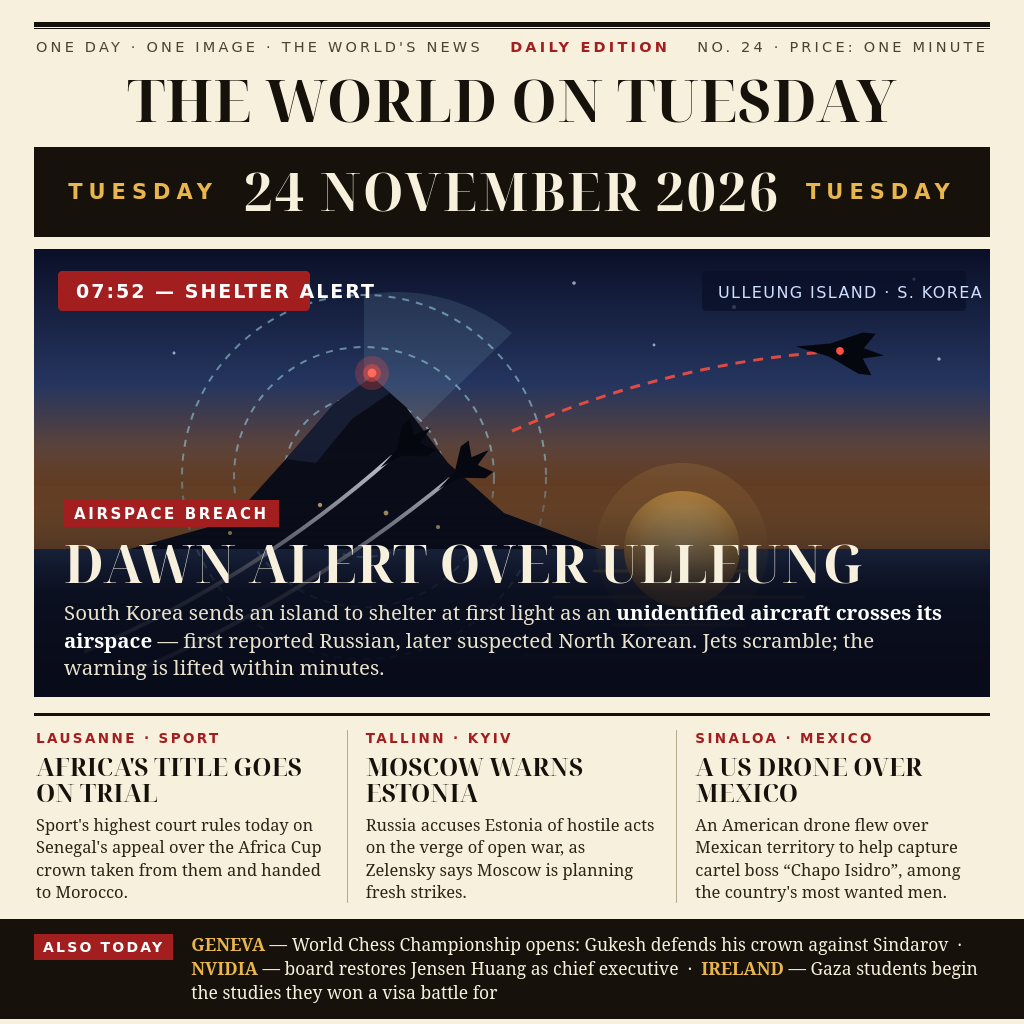
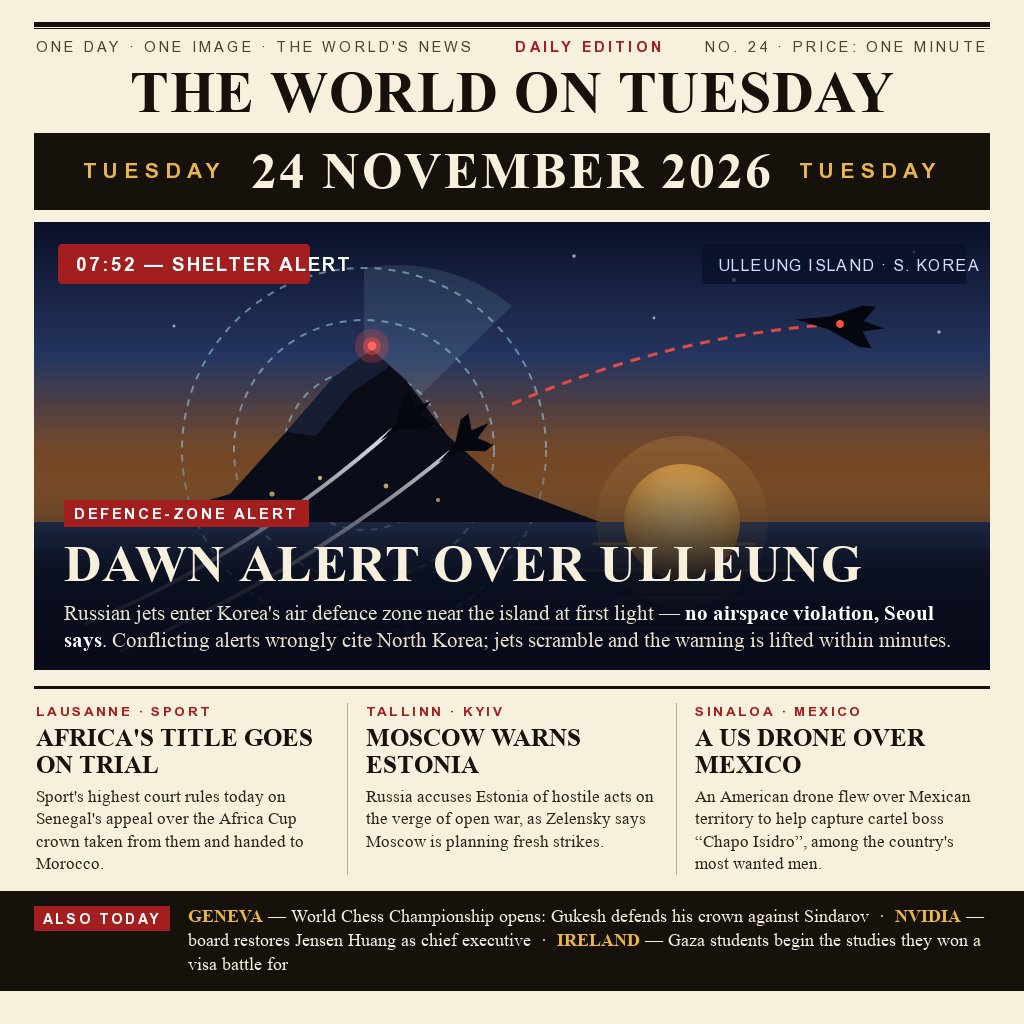
Correct Ulleung hero: Russian jets entered KADIZ, no airspace violation

diff --git a/frontpage.html b/frontpage.html
@@ -207,11 +207,11 @@
       </g>
     </svg>
     <div class="hero-head">
-      <span class="flag">AIRSPACE BREACH</span>
+      <span class="flag">DEFENCE-ZONE ALERT</span>
       <h2>DAWN ALERT OVER ULLEUNG</h2>
-      <p>South Korea sends an island to shelter at first light as an <b>unidentified aircraft crosses
-         its airspace</b> — first reported Russian, later suspected North Korean. Jets scramble;
-         the warning is lifted within minutes.</p>
+      <p>Russian jets enter Korea's air defence zone near the island at first light —
+         <b>no airspace violation, Seoul says</b>. Conflicting alerts wrongly cite North Korea;
+         jets scramble and the warning is lifted within minutes.</p>
     </div>
   </div>
 

diff --git a/main.ts b/main.ts
@@ -2,8 +2,8 @@
 // Tuesday 24 November 2026, for make.fun's news-image-20261124.
 //
 // entry.png beside this file is the picture: a newspaper front page
-// whose single dominant scene shows South Korea's dawn airspace alert
-// over Ulleung Island — an unidentified aircraft crossing at first
+// whose single dominant scene shows South Korea's dawn alert over
+// Ulleung Island — Russian jets entering the air defence zone at first
 // light, interceptors climbing, a shelter warning on the island —
 // under a masthead that names the day in full. Three short supporting
 // stories (the CAS ruling on Africa's title, Moscow's warning to
